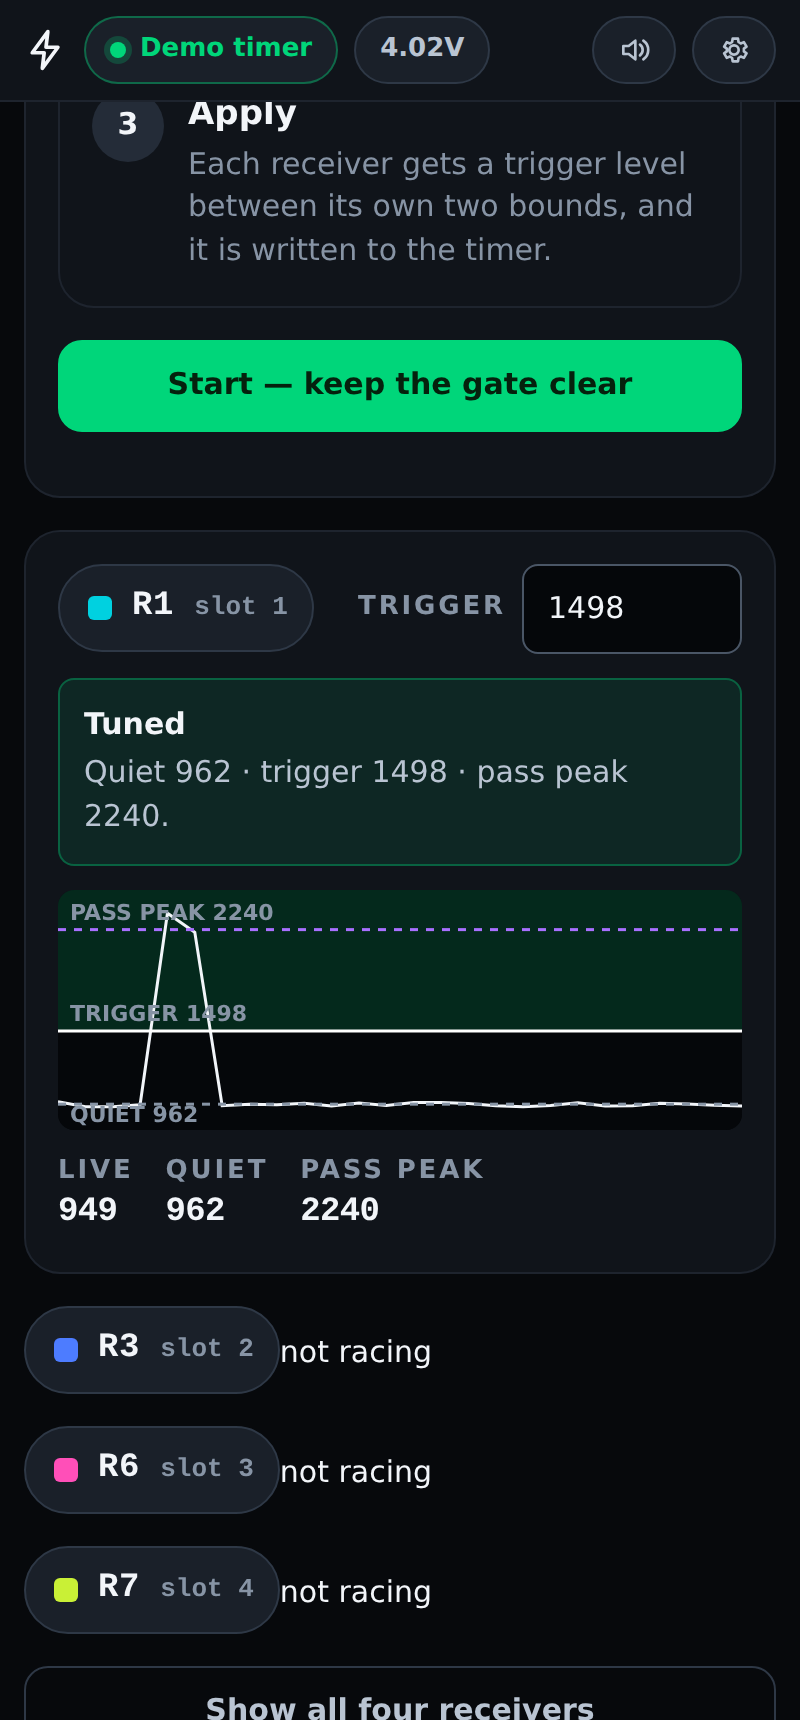
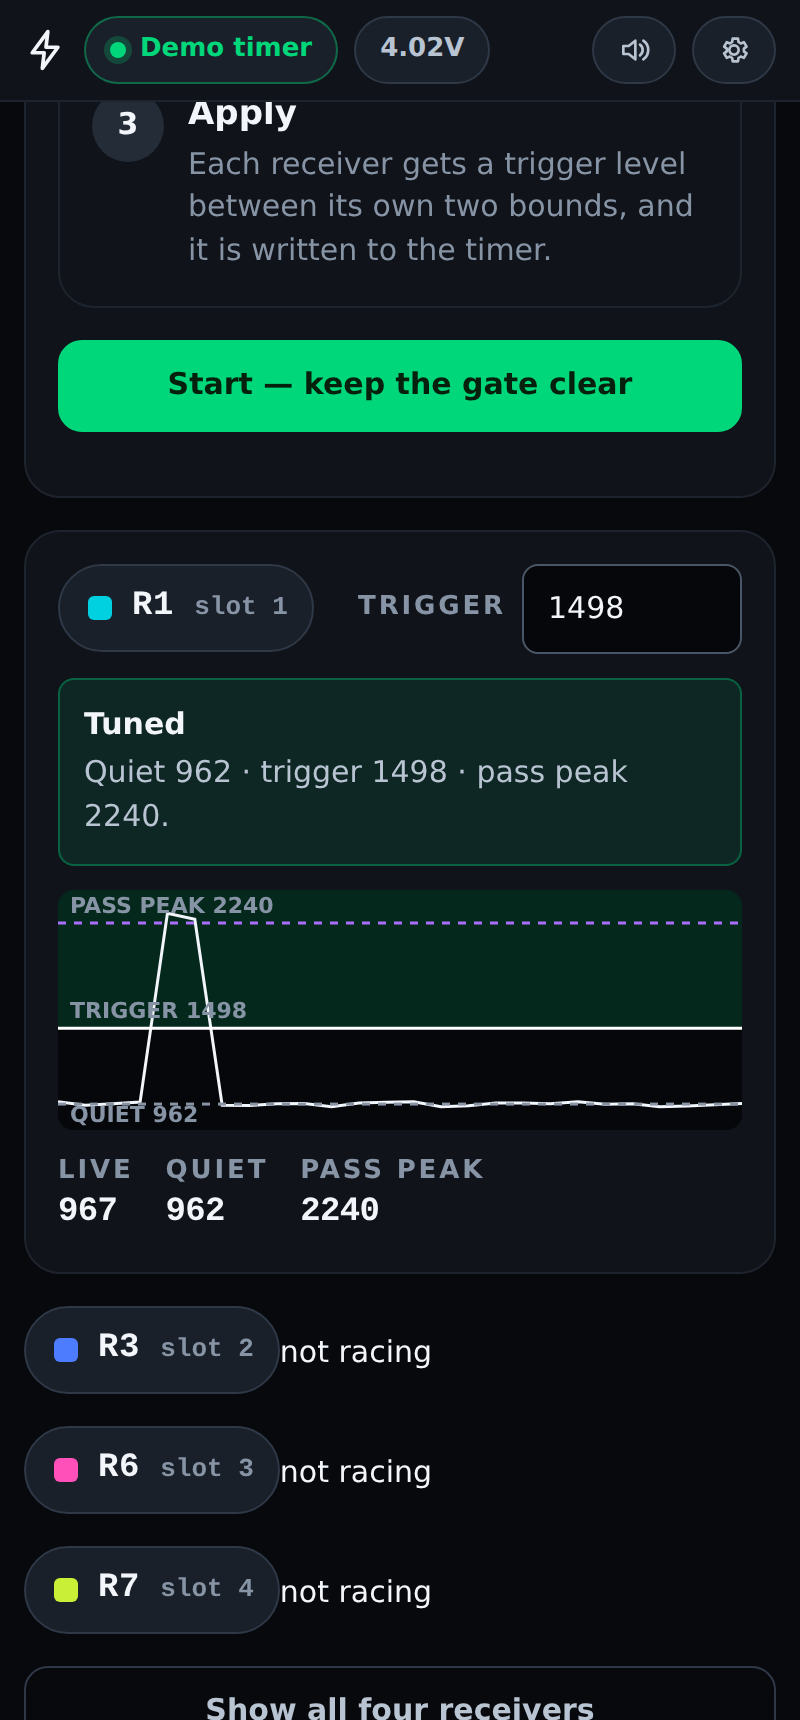
Demote the start button when a receiver cannot see a lap, and trim redraws
Starting a race on a receiver whose trigger sits under its own noise records
nothing. The app already said so; the primary action still looked like the
obvious thing to press. It now turns amber and reads "Start anyway — laps may
not record" — still their call, no longer an invitation.

Redraw work trimmed to match how fast the data actually moves: four signal
instruments were repainting every animation frame for a timer that reports a
few times a second, timing cells wrote text that had not changed, and a phone's
address bar sliding away fired a rebuild that threw out scroll position. Only a
change of layout breakpoint rebuilds now.

Claude-Session: https://claude.ai/code/session_01DYSQ6g2PVK63MQKGdUrvAN

Changed region(s): [[0.0938, 0.5238, 0.9062, 0.6471], [0.0938, 0.6779, 0.1562, 0.7087]]

diff --git a/static/js/screens.js b/static/js/screens.js
@@ -391,9 +391,12 @@ SCREENS.fly = app => {
 
     const s = r.state;
     const running = s === 'running' || s === 'staging';
+    const blind = !running && hp.fatal;
     mount(primary, icon(running ? 'stop' : 'play', 22),
-      running ? 'Stop' : s === 'finished' ? 'Go again' : 'Start flying');
-    primary.className = 'primary wide ' + (running ? 'danger' : 'go');
+      running ? 'Stop'
+      : blind ? 'Start anyway — laps may not record'
+      : s === 'finished' ? 'Go again' : 'Start flying');
+    primary.className = 'primary wide ' + (running ? 'danger' : blind ? 'warn' : 'go');
     undoBtn.disabled = p.lapCount === 0;
     manualBtn.disabled = s !== 'running';
     endBtn.disabled = s !== 'running' && s !== 'staging';
@@ -420,9 +423,14 @@ function splitDecimal(node) {
 
 function statCell(label) {
   const v = h('div.v.num', '—');
-  return { node: h('div.stat', v, h('div.cap', label)),
-           set: (text, tone) => { v.textContent = text; if (tone) v.dataset.tone = tone;
-                                  else delete v.dataset.tone; } };
+  return {
+    node: h('div.stat', v, h('div.cap', label)),
+    set: (text, tone) => {
+      if (v.textContent !== text) v.textContent = text;
+      if (tone) { if (v.dataset.tone !== tone) v.dataset.tone = tone; }
+      else if ('tone' in v.dataset) delete v.dataset.tone;
+    },
+  };
 }
 
 const fmtOrDash = v => v == null ? '—' : fmt2(v);
@@ -578,10 +586,16 @@ function raceSetup(app) {
     applyCoach(coach, app.coach());
     formatLine.textContent = app.race.formatLine();
     const n = app.race.racing.length;
+    /* A receiver that cannot detect a lap makes this race record nothing. The
+     * button still works — it is their call — but it stops looking like the
+     * obvious next thing to press, and says what it is agreeing to. */
+    const blind = app.race.racing.some(p => app.health(p.slot).fatal);
     mount(primary, icon('play', 22),
       n === 0 ? 'Switch on at least one pilot' :
+      blind ? 'Start anyway — laps may not record' :
       app.settings.countdown > 0 ? `Arm the race · ${plural(n, 'pilot')}`
                                  : `Start now · ${plural(n, 'pilot')}`);
+    primary.className = 'primary wide ' + (blind ? 'warn' : 'go');
     primary.disabled = n === 0;
   };
   update();
@@ -701,8 +715,14 @@ function raceLive(app) {
 
 function towerCell(label) {
   const v = h('div.v.num', '—');
-  return { node: h('div.cell', v, h('div.cap', label)),
-           set: (t, tone) => { v.textContent = t; if (tone) v.dataset.tone = tone; else delete v.dataset.tone; } };
+  return {
+    node: h('div.cell', v, h('div.cap', label)),
+    set: (t, tone) => {
+      if (v.textContent !== t) v.textContent = t;
+      if (tone) { if (v.dataset.tone !== tone) v.dataset.tone = tone; }
+      else if ('tone' in v.dataset) delete v.dataset.tone;
+    },
+  };
 }
 
 /* ============================================================== gate ====== */
@@ -714,8 +734,7 @@ SCREENS.gate = app => {
 
   const wizardBox = h('div.card.stack');
   const slotBox = h('div.stack');
-  const advanced = h('details.card',
-    h('summary', { style: { cursor: 'pointer', fontWeight: '700' } }, 'Advanced'));
+  const advanced = h('details.card');
 
   const drawWizard = () => {
     const phase = app.cal.phase;
@@ -845,7 +864,12 @@ SCREENS.gate = app => {
     wizardBox, slotBox, advanced);
 
   let phaseSeen = app.cal.phase;
+  let lastDraw = 0;
   const update = () => {
+    /* The timer reports signal a few times a second at best, so redrawing four
+     * instruments every animation frame buys nothing and costs battery. */
+    const paint = performance.now() - lastDraw > 90;
+    if (paint) lastDraw = performance.now();
     if (app.cal.phase !== phaseSeen) { phaseSeen = app.cal.phase; evidence = drawWizard(); }
     const counts = Object.values(app.cal.counts || {});
     const samples = counts.length ? Math.min(...counts) : 0;
@@ -876,8 +900,10 @@ SCREENS.gate = app => {
           kv('Quiet', cfg.floor == null ? 'not measured' : Math.round(cfg.floor)),
           kv('Pass peak', cfg.ceiling == null ? 'not measured' : Math.round(cfg.ceiling)));
       }
-      drawMeter(ref.canvas, { live, floor: cfg.floor, ceiling: cfg.ceiling,
-                              threshold: cfg.threshold, series: sig?.series() || [] });
+      if (paint) {
+        drawMeter(ref.canvas, { live, floor: cfg.floor, ceiling: cfg.ceiling,
+                                threshold: cfg.threshold, series: sig?.series() || [] });
+      }
     }
   };
   update();

diff --git a/static/js/app.js b/static/js/app.js
@@ -78,10 +78,15 @@ class App {
         if (this._deferredRender) this._flushRender();
       }, true);
     }
-    let resizeT = null;
+    /* Only a change of breakpoint matters — labels and layout branch on it. A
+     * phone's address bar sliding away fires resize constantly, and rebuilding
+     * on that would throw away scroll position mid-scroll. */
+    let wasNarrow = innerWidth < 560;
     addEventListener('resize', () => {
-      clearTimeout(resizeT);
-      resizeT = setTimeout(() => this.markStructural(), 180);
+      const narrow = innerWidth < 560;
+      if (narrow === wasNarrow) return;
+      wasNarrow = narrow;
+      this.markStructural();
     });
     document.addEventListener('visibilitychange', () => {
       if (document.visibilityState === 'visible' && this.race.state === 'running') this.wake.request();

diff --git a/README.md b/README.md
@@ -245,7 +245,10 @@ whooptimer.webfpv.org.   CNAME   mathew-harvey.github.io.
 ```
 
 then set the same name under the repository's **Settings → Pages → Custom
-domain** and tick *Enforce HTTPS*. The apex `webfpv.org` is independent — it can
+domain** and tick *Enforce HTTPS*. Do the DNS record first: while a `CNAME` file
+is present, Pages redirects the `mathew-harvey.github.io/WhoopRaceTimer` URL to
+the custom domain, so until that name resolves the site is unreachable at either
+address. Delete `static/CNAME` if you want the `github.io` URL back. The apex `webfpv.org` is independent — it can
 serve a different site from a different repository or host entirely, and each
 extra app gets its own subdomain the same way.
 
